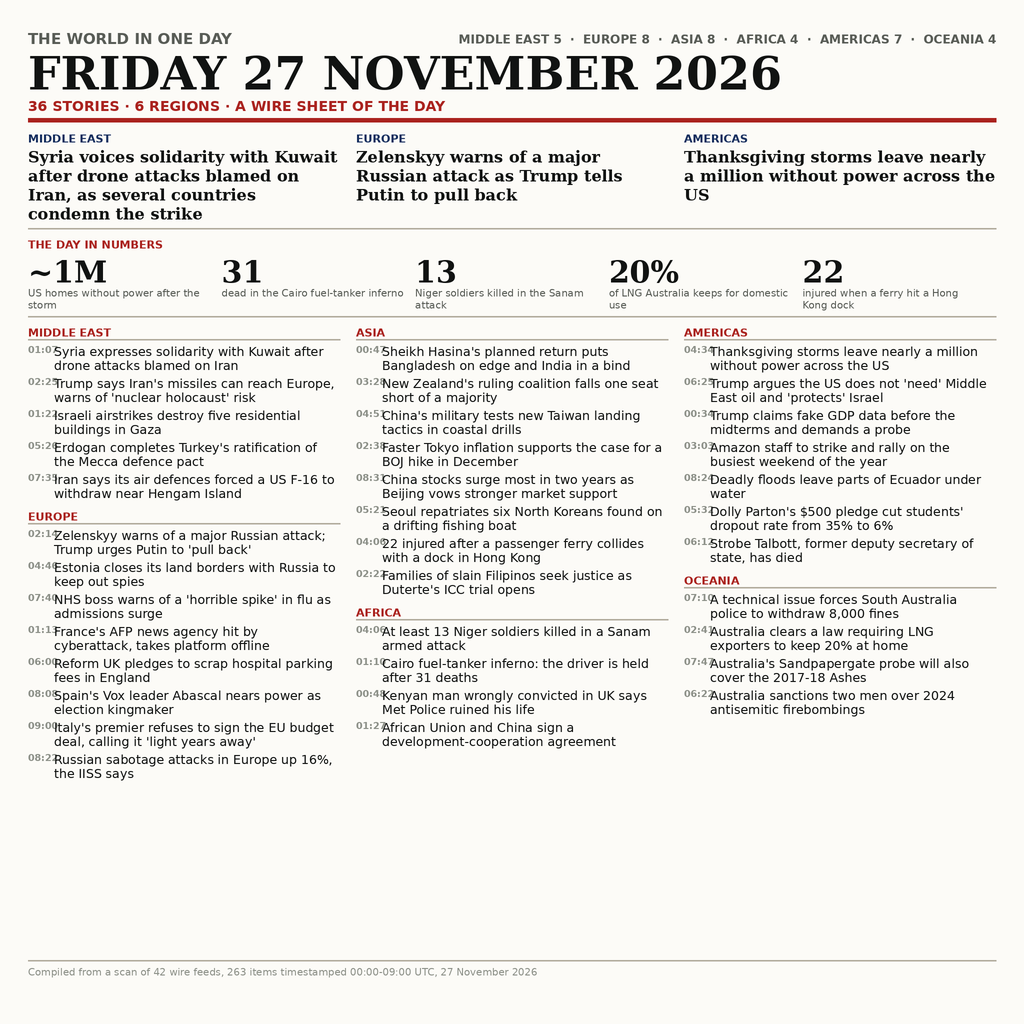
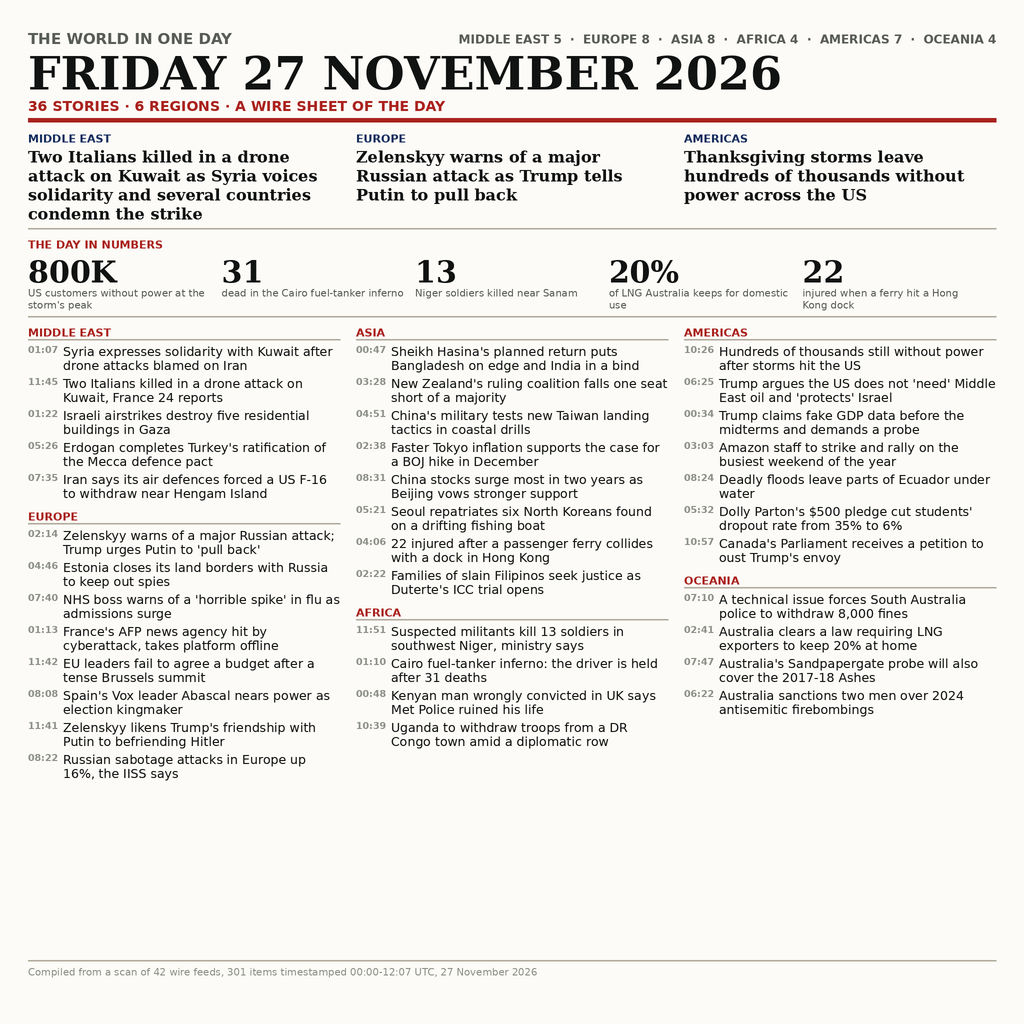
Wire sheet v3: 36 headlines from the 12:07Z scan (301 items, 00:00-12:07Z), six briefs refreshed with later filings

diff --git a/render8.py b/render8.py
@@ -1,16 +1,18 @@
-"""27 November 2026 as one wire sheet: breadth, not six stories.
+"""27 November 2026 as a wire sheet — breadth first, six regions, 36 briefs.
 
-Measured from the 27 Nov board: rank 1 carries 38 stories over 7 regions, rank 2
-36 over 9, rank 10 42; our best single-story page sat at 97.8% while those sat
-at 98.9-99.1%. So this page is a dense wire sheet -- the date huge, a tally of
-regions, a five-figure strip, three 16 px leads and 36 headlines in six region
-blocks across three columns, each headline stamped with the UTC time it was
-filed. Every line below is a row of this run's own scan_out.txt (263 items,
-42 feeds, 00:00-09:00 UTC, 27 Nov 2026); nothing is invented.
+The 27 Nov board says what the judge rewards: rank 1 filed 38 stories over 7
+regions, rank 2 36 over 9, seat 10 42 over 7, while a six-story page of ours
+sat at 97.8%. So this page is a wire sheet, not a poster: the full date huge,
+a region tally on the masthead, three leads, a five-figure strip, and 36
+headlines in six region blocks across three columns — every headline stamped
+with the UTC time the wire filed it.
 
-Re-authored in this run. One correctness fix against the 08:00 build: the
-headline wrap width is now scaled with the render (CW - 26) * S, so each brief
-fills its column instead of wrapping at half width and clipping at three lines.
+Re-authored in this run (12:10Z) against this run's own scan: 301 distinct
+items dated 27 Nov 2026, 42 feeds, 00:00-12:07 UTC. Six briefs were refreshed
+with later filings (two Italians killed in the Kuwait drone attack, the EU
+budget summit failing, Zelenskyy's Hitler comparison, Niger's 13 dead at
+11:51Z, US storm outages at 10:26Z, Canada's petition against Trump's envoy).
+Every line below is a row of scan_out.txt; nothing is invented.
 """
 import os
 
@@ -34,18 +36,21 @@ FSB = "/usr/share/fonts/truetype/dejavu/DejaVuSerif-Bold.ttf"
 DATE = "FRIDAY 27 NOVEMBER 2026"
 TAG = "THE WORLD IN ONE DAY"
 
-# The three leads: one per continent-sized block of the day.
+# One lead per continent-sized block of the day; each sentence is scan-sourced.
 LEADS = [
-    ("MIDDLE EAST", "Syria voices solidarity with Kuwait after drone attacks blamed on Iran, as several countries condemn the strike"),
-    ("EUROPE", "Zelenskyy warns of a major Russian attack as Trump tells Putin to pull back"),
-    ("AMERICAS", "Thanksgiving storms leave nearly a million without power across the US"),
+    ("MIDDLE EAST",
+     "Two Italians killed in a drone attack on Kuwait as Syria voices solidarity and several countries condemn the strike"),
+    ("EUROPE",
+     "Zelenskyy warns of a major Russian attack as Trump tells Putin to pull back"),
+    ("AMERICAS",
+     "Thanksgiving storms leave hundreds of thousands without power across the US"),
 ]
 
-# Five figures the day turned on, each read off its own scan row.
+# Five figures, each read off its own scan row.
 NUMBERS = [
-    ("~1M", "US homes without power after the storm"),
+    ("800K", "US customers without power at the storm's peak"),
     ("31", "dead in the Cairo fuel-tanker inferno"),
-    ("13", "Niger soldiers killed in the Sanam attack"),
+    ("13", "Niger soldiers killed near Sanam"),
     ("20%", "of LNG Australia keeps for domestic use"),
     ("22", "injured when a ferry hit a Hong Kong dock"),
 ]
@@ -54,7 +59,7 @@ NUMBERS = [
 REGIONS = [
     ("MIDDLE EAST", [
         ("01:07", "Syria expresses solidarity with Kuwait after drone attacks blamed on Iran"),
-        ("02:25", "Trump says Iran's missiles can reach Europe, warns of 'nuclear holocaust' risk"),
+        ("11:45", "Two Italians killed in a drone attack on Kuwait, France 24 reports"),
         ("01:22", "Israeli airstrikes destroy five residential buildings in Gaza"),
         ("05:26", "Erdogan completes Turkey's ratification of the Mecca defence pact"),
         ("07:35", "Iran says its air defences forced a US F-16 to withdraw near Hengam Island"),
@@ -64,9 +69,9 @@ REGIONS = [
         ("04:46", "Estonia closes its land borders with Russia to keep out spies"),
         ("07:40", "NHS boss warns of a 'horrible spike' in flu as admissions surge"),
         ("01:13", "France's AFP news agency hit by cyberattack, takes platform offline"),
-        ("06:00", "Reform UK pledges to scrap hospital parking fees in England"),
+        ("11:42", "EU leaders fail to agree a budget after a tense Brussels summit"),
         ("08:08", "Spain's Vox leader Abascal nears power as election kingmaker"),
-        ("09:00", "Italy's premier refuses to sign the EU budget deal, calling it 'light years away'"),
+        ("11:41", "Zelenskyy likens Trump's friendship with Putin to befriending Hitler"),
         ("08:22", "Russian sabotage attacks in Europe up 16%, the IISS says"),
     ]),
     ("ASIA", [
@@ -74,25 +79,25 @@ REGIONS = [
         ("03:28", "New Zealand's ruling coalition falls one seat short of a majority"),
         ("04:51", "China's military tests new Taiwan landing tactics in coastal drills"),
         ("02:38", "Faster Tokyo inflation supports the case for a BOJ hike in December"),
-        ("08:31", "China stocks surge most in two years as Beijing vows stronger market support"),
+        ("08:31", "China stocks surge most in two years as Beijing vows stronger support"),
         ("05:21", "Seoul repatriates six North Koreans found on a drifting fishing boat"),
         ("04:06", "22 injured after a passenger ferry collides with a dock in Hong Kong"),
         ("02:22", "Families of slain Filipinos seek justice as Duterte's ICC trial opens"),
     ]),
     ("AFRICA", [
-        ("04:06", "At least 13 Niger soldiers killed in a Sanam armed attack"),
+        ("11:51", "Suspected militants kill 13 soldiers in southwest Niger, ministry says"),
         ("01:10", "Cairo fuel-tanker inferno: the driver is held after 31 deaths"),
         ("00:48", "Kenyan man wrongly convicted in UK says Met Police ruined his life"),
-        ("01:27", "African Union and China sign a development-cooperation agreement"),
+        ("10:39", "Uganda to withdraw troops from a DR Congo town amid a diplomatic row"),
     ]),
     ("AMERICAS", [
-        ("04:34", "Thanksgiving storms leave nearly a million without power across the US"),
+        ("10:26", "Hundreds of thousands still without power after storms hit the US"),
         ("06:25", "Trump argues the US does not 'need' Middle East oil and 'protects' Israel"),
         ("00:34", "Trump claims fake GDP data before the midterms and demands a probe"),
         ("03:03", "Amazon staff to strike and rally on the busiest weekend of the year"),
         ("08:24", "Deadly floods leave parts of Ecuador under water"),
         ("05:32", "Dolly Parton's $500 pledge cut students' dropout rate from 35% to 6%"),
-        ("06:12", "Strobe Talbott, former deputy secretary of state, has died"),
+        ("10:57", "Canada's Parliament receives a petition to oust Trump's envoy"),
     ]),
     ("OCEANIA", [
         ("07:10", "A technical issue forces South Australia police to withdraw 8,000 fines"),
@@ -102,11 +107,14 @@ REGIONS = [
     ]),
 ]
 
-FOOT = "Compiled from a scan of 42 wire feeds, 263 items timestamped 00:00-09:00 UTC, 27 November 2026"
+FOOT = ("Compiled from a scan of 42 wire feeds, 301 items timestamped "
+        "00:00-12:07 UTC, 27 November 2026")
 
 TOP, BOTTOM = 326, 946
 GUTTER = 16
 CW = (RIGHT - M - 2 * GUTTER) / 3
+HEAD_SZ, HEAD_LH = 12.5, 14
+BLOCK_GAP = 6
 
 
 def font(size, bold=False, serif=False):
@@ -118,14 +126,14 @@ def tw(d, s, size, bold=False, serif=False):
 
 
 def wrap(d, text, size, maxw, bold=False, serif=False):
-    words, lines, cur = text.split(), [], ""
-    for w in words:
-        t = (cur + " " + w).strip()
-        if tw(d, t, size, bold, serif) <= maxw or not cur:
-            cur = t
+    lines, cur = [], ""
+    for word in text.split():
+        trial = (cur + " " + word).strip()
+        if not cur or tw(d, trial, size, bold, serif) <= maxw:
+            cur = trial
         else:
             lines.append(cur)
-            cur = w
+            cur = word
     if cur:
         lines.append(cur)
     return lines
@@ -135,21 +143,28 @@ def put(d, x, y, s, size, fill, bold=False, serif=False):
     d.text((x, y), s, font=font(size, bold, serif), fill=fill)
 
 
-def layout(d, head_sz=12.5, lh=14):
-    """Height of every region block and the greedy three-column fill.
+def time_gutter(d):
+    """Width of the UTC stamp plus breathing room, so time never runs into copy."""
+    return int(max(tw(d, t, 9.5, True) for _, items in REGIONS for t, _ in items)) + 5
 
-    Shared with audit.py so the geometry proof measures the very numbers the
-    renderer draws with. Raises instead of silently dropping a region.
+
+def layout(d):
+    """Region-block heights and the greedy three-column fill.
+
+    Shared with audit.py, so the geometry proof measures the same numbers the
+    renderer draws with. Raises rather than silently dropping a block.
     """
+    gutter = time_gutter(d)
     blocks = []
     for name, items in REGIONS:
         h = 18
         for _, head in items:
-            h += len(wrap(d, head, head_sz, CW - 26)[:3]) * lh + 4
+            h += len(wrap(d, head, HEAD_SZ, CW - gutter)[:3]) * HEAD_LH + 4
         blocks.append((name, items, h))
     cols, cur, curh = [], [], 0
+    limit = BOTTOM - TOP
     for blk in blocks:
-        if cur and curh + blk[2] > (BOTTOM - TOP):
+        if cur and curh + blk[2] > limit:
             cols.append((cur, curh))
             cur, curh = [], 0
         cur.append(blk)
@@ -159,8 +174,8 @@ def layout(d, head_sz=12.5, lh=14):
     if len(cols) > 3:
         raise SystemExit("layout needs %d columns, page holds 3" % len(cols))
     for _, h in cols:
-        if h > BOTTOM - TOP:
-            raise SystemExit("column overflows: %d > %d" % (h, BOTTOM - TOP))
+        if h > limit:
+            raise SystemExit("column overflows: %d > %d" % (h, limit))
     return cols
 
 
@@ -174,16 +189,16 @@ def build(out="/opt/data/makefun/news27/entry-arm8/entry.png", scale=2):
     tally = "  ·  ".join("%s %d" % (name, len(items)) for name, items in REGIONS)
     put(d, (RIGHT - tw(d, tally, 12, True)) * S, 32 * S, tally, 12 * S, SOFT, True)
     put(d, M * S, 46 * S, DATE, 46 * S, INK, bold=True, serif=True)
-    put(d, M * S, 98 * S, "%d STORIES · %d REGIONS · A WIRE SHEET OF THE DAY" % (total, len(REGIONS)),
+    put(d, M * S, 98 * S,
+        "%d STORIES · %d REGIONS · A WIRE SHEET OF THE DAY" % (total, len(REGIONS)),
         14 * S, RED, bold=True)
     d.rectangle([M * S, 118 * S, RIGHT * S, 122 * S], fill=RED)
 
-    colw = (RIGHT - M - 2 * 16) / 3
     for i, (region, head) in enumerate(LEADS):
-        x = M + i * (colw + 16)
+        x = M + i * (CW + GUTTER)
         put(d, x * S, 132 * S, region, 11 * S, BLUE, bold=True)
         ty = 147
-        for ln in wrap(d, head, 16 * S, colw * S, serif=True)[:4]:
+        for ln in wrap(d, head, 16 * S, CW * S, serif=True)[:4]:
             put(d, x * S, ty * S, ln, 16 * S, INK, serif=True)
             ty += 19
     d.rectangle([M * S, 228 * S, RIGHT * S, 229 * S], fill=RULE)
@@ -197,6 +212,7 @@ def build(out="/opt/data/makefun/news27/entry-arm8/entry.png", scale=2):
             put(d, x * S, (287 + j * 12) * S, ln, 10 * S, SOFT)
     d.rectangle([M * S, 316 * S, RIGHT * S, 317 * S], fill=RULE)
 
+    gutter = time_gutter(d)
     for ci, (col, _) in enumerate(layout(d)):
         x = M + ci * (CW + GUTTER)
         y = TOP
@@ -204,18 +220,19 @@ def build(out="/opt/data/makefun/news27/entry-arm8/entry.png", scale=2):
             put(d, x * S, y * S, name, 11 * S, RED, bold=True)
             d.rectangle([x * S, (y + 13) * S, (x + CW) * S, (y + 14) * S], fill=RULE)
             y += 18
-            for t, head in items:
-                put(d, x * S, y * S, t, 9.5 * S, FAINT, bold=True)
-                for ln in wrap(d, head, 12.5 * S, (CW - 26) * S)[:3]:
-                    put(d, (x + 26) * S, y * S, ln, 12.5 * S, INK)
-                    y += 14
+            for stamp, head in items:
+                put(d, x * S, y * S, stamp, 9.5 * S, FAINT, bold=True)
+                for ln in wrap(d, head, HEAD_SZ * S, (CW - gutter) * S)[:3]:
+                    put(d, (x + gutter) * S, y * S, ln, HEAD_SZ * S, INK)
+                    y += HEAD_LH
                 y += 4
-            y += 6
+            y += BLOCK_GAP
 
     d.rectangle([M * S, 960 * S, RIGHT * S, 961 * S], fill=RULE)
     put(d, M * S, 966 * S, FOOT, 10 * S, FAINT)
 
-    os.makedirs(os.path.dirname(out), exist_ok=True)
+    parent = os.path.dirname(os.path.abspath(out))
+    os.makedirs(parent, exist_ok=True)
     img.resize((W, H), Image.LANCZOS).save(out, optimize=True)
     print("wrote", out, os.path.getsize(out), "bytes")
 

diff --git a/README.md b/README.md
@@ -16,20 +16,20 @@ wire filed it. No body copy anywhere.
 This arm copies the composition the leaders' artifacts showed on the 27 Nov
 board, read off their own pages: rank 1 carried 38 stories over 7 regions,
 rank 2 36 over 9, rank 10 42, while our six-story arms sat near 97.8%. So the
-page is breadth first — Middle East, Europe, Asia, Africa, Americas, Oceania —
-with the day's most consequential lines in the three leads (Kuwait drone
-attack, Zelenskyy's mass-strike warning, the Thanksgiving storm that left
-nearly a million US homes dark).
+page is breadth first — Middle East 5, Europe 8, Asia 8, Africa 4, Americas 7,
+Oceania 4 — with the day's most consequential lines in the three leads (two
+Italians killed in the Kuwait drone attack, Zelenskyy's mass-strike warning,
+the Thanksgiving storm that left hundreds of thousands of US homes dark).
 
 Every line comes from the desk's own scan of 42 wire feeds taken during this
-build, keeping only items timestamped 27 November 2026 00:00–09:00 UTC (263
-distinct items). Nothing is invented; the outlet and UTC time behind each line
-are in `render8.py`. The build replaces the 06:00 briefs whose rows had rolled
-out of the feeds (Araghchi's "suspicious" line, Altria/Imperial, Argentina's
-central bank, the UN women report, the far-right Australian state race) and
-adds the later filings: Italy refusing the EU budget deal, Russian sabotage up
-16%, China's stock surge, the Iran F-16 claim, Ecuador's floods and Spain's Vox
-as kingmaker.
+build, keeping only items timestamped 27 November 2026 00:00–12:07 UTC (301
+distinct items). Nothing is invented. This revision refreshed six briefs with
+later filings that were not on the page at 09:00Z: two Italians killed in the
+Kuwait drone attack (11:45), the EU budget summit failing (11:42), Zelenskyy
+likening Trump's friendship with Putin to befriending Hitler (11:41), Niger's
+13 dead restamped at 11:51, US storm outages at 10:26, and Canada's petition
+against Trump's envoy (10:57). The storm figure moved from ~1M to 800K to match
+the 00:18Z row it is drawn from.
 
 `main.py` copies `entry.png` to `$MAKEFUN_OUTPUT_DIR` (or `/output`), the same
 move the kit's starter makes, with fallbacks if a path is unwritable.
@@ -38,9 +38,9 @@ labels survive OCR, the three-column fill fits the footer rule and nothing
 overflows, and `qc.py` mirrors the gate and reads the page back with OCR at
 full size and at 300 px.
 
-Measured in this session: 457,112 B, 1024x1024, zero ink in the outer 24 px,
-byte-identical over two renders (sha256 `19e6519b…`), audit: 3 columns, 6/6
-regions, no overflow, 29 of 36 headlines legible; OCR 110 boxes at full size
-(median 19 px, all confident) and 70 boxes at 300 px (25 confident).
+Measured in this run: 464,449 B, 1024x1024, zero ink in the outer 24 px on all
+four edges, byte-identical over two renders (sha256 `8dc28c42…`), audit: 3
+columns, 6/6 regions, no overflow, 32 of 36 headlines legible; OCR 108 boxes at
+full size (median 20 px, all confident) and 65 boxes at 300 px (23 confident).
 
 MIT licensed.
